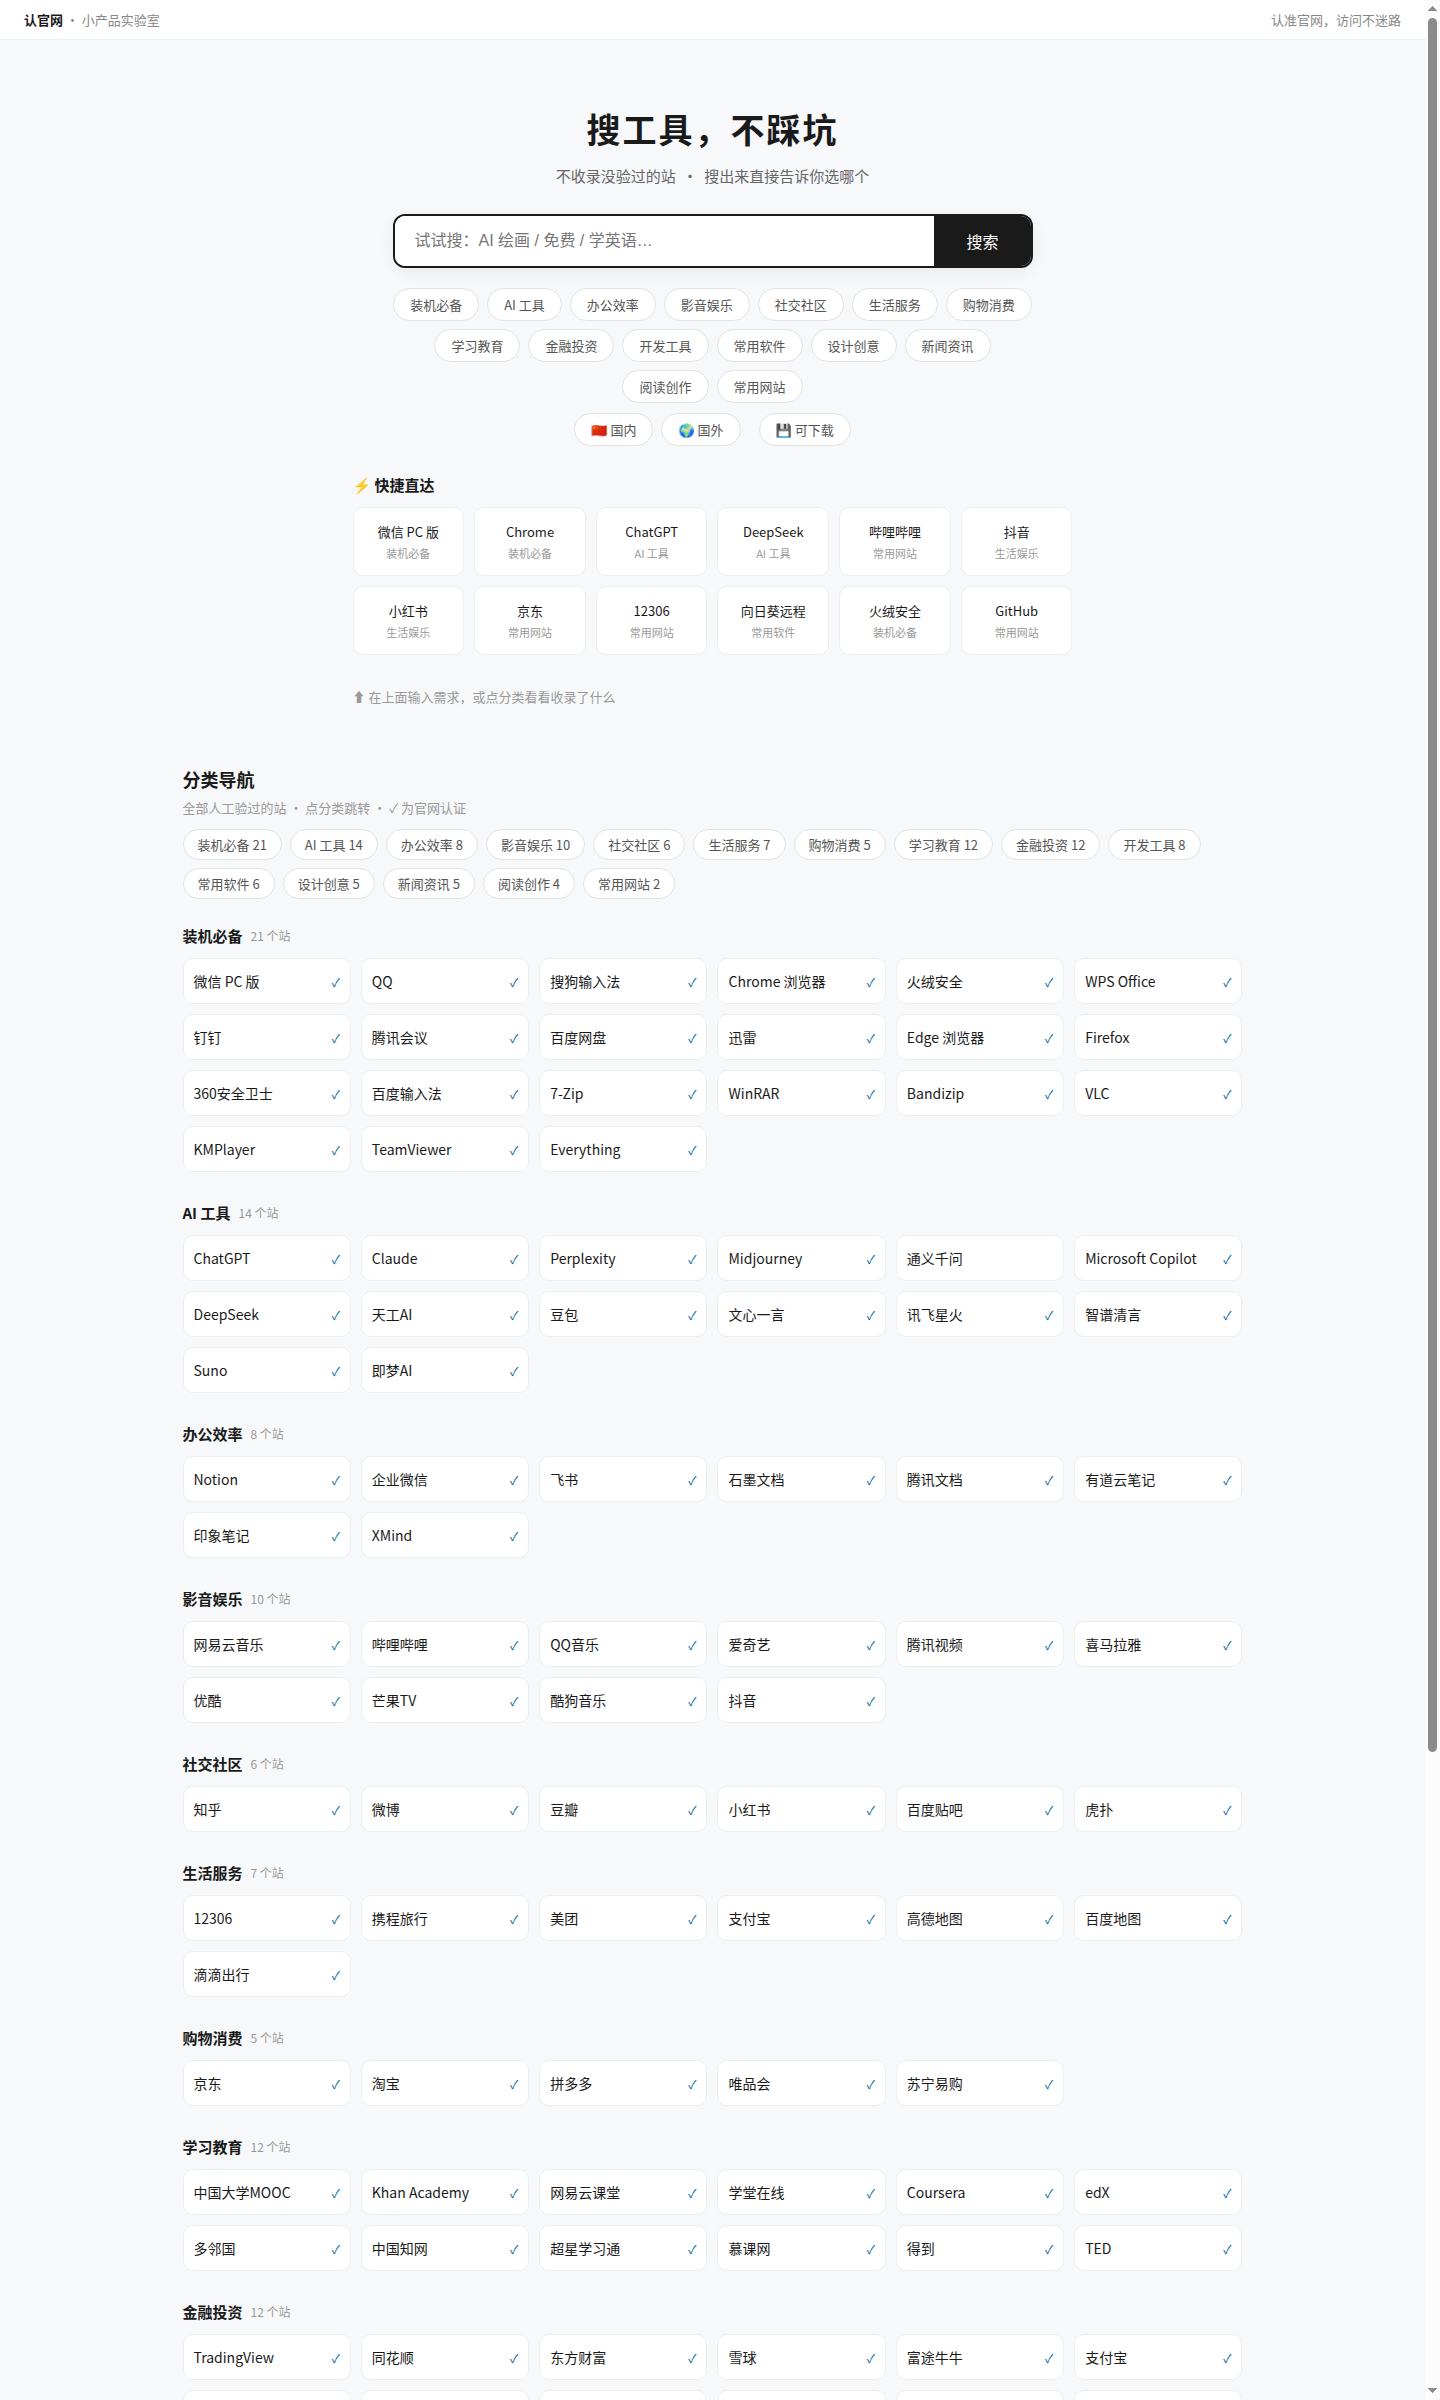
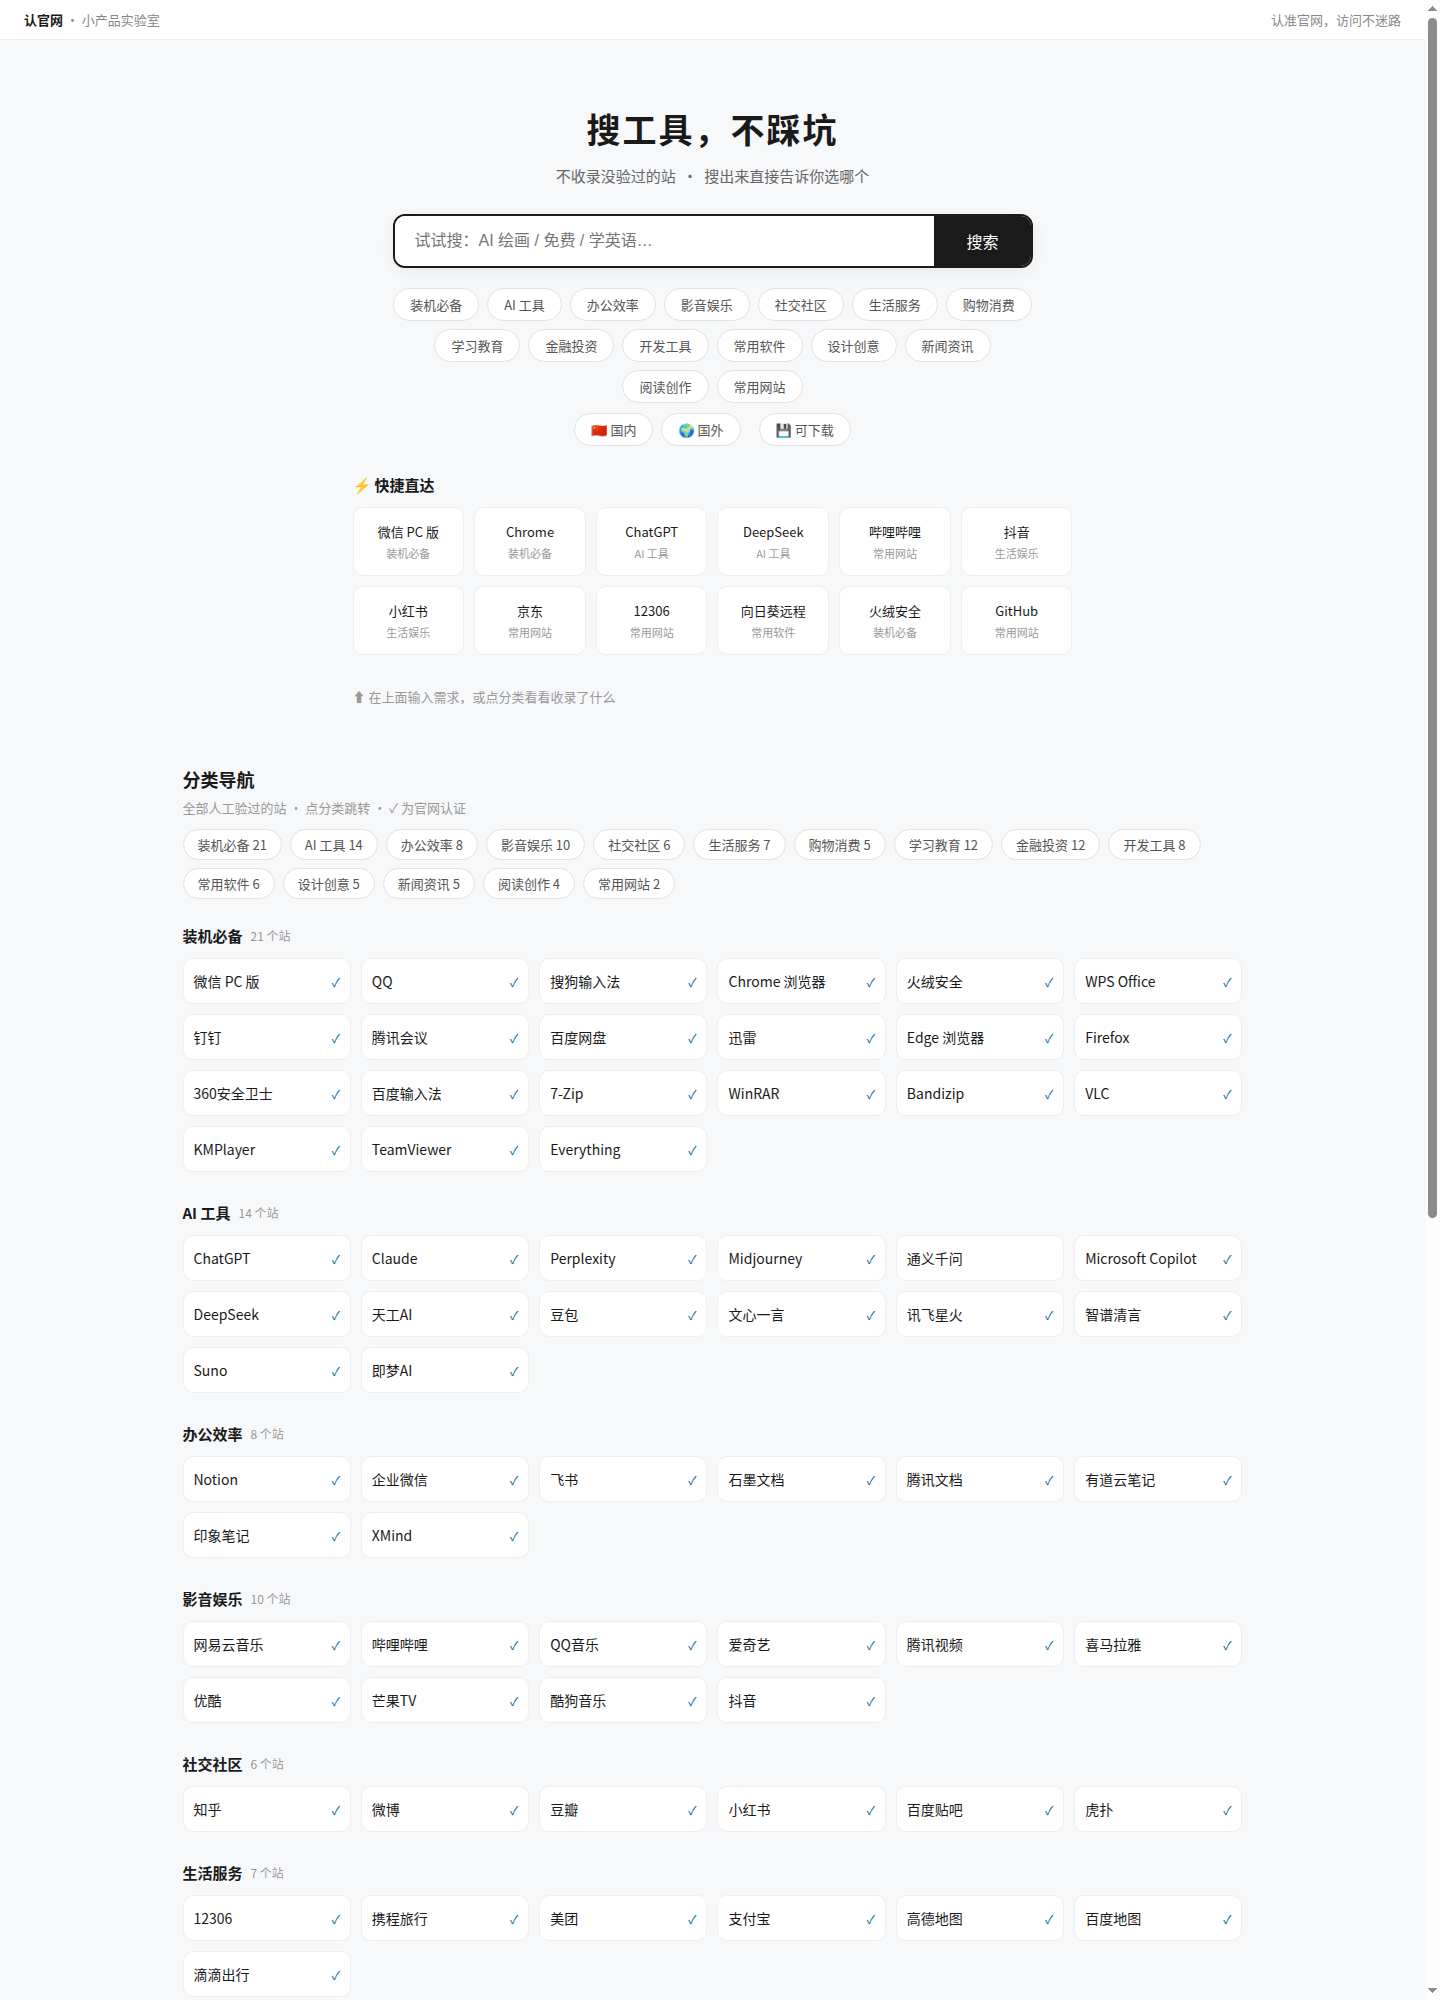
官网信息加重：导航方块/快捷直达/搜索卡片全部显示真实官方域名

diff --git a/index.html b/index.html
@@ -55,9 +55,13 @@
   .cat-block h3 { font-size:15px; margin-bottom:12px; display:flex; align-items:center; gap:8px; }
   .cat-block h3 .cnt { font-size:12px; color:#999; font-weight:400; }
   .site-grid { display:grid; grid-template-columns:repeat(auto-fill, minmax(150px, 1fr)); gap:10px; }
-  .site-grid a { background:#fff; border:1px solid #eee; border-radius:10px; padding:12px 10px; text-decoration:none; color:#1a1a1a; font-size:14px; display:flex; align-items:center; justify-content:space-between; gap:6px; }
+  .site-grid a { background:#fff; border:1px solid #eee; border-radius:10px; padding:12px 10px; text-decoration:none; display:flex; flex-direction:column; align-items:flex-start; gap:3px; }
   .site-grid a:hover { border-color:#1a1a1a; }
-  .site-grid a .off { color:#0369a1; font-size:12px; flex-shrink:0; }
+  .site-grid a .sname { font-size:14px; color:#1a1a1a; display:flex; align-items:center; gap:6px; }
+  .site-grid a .off { color:#0369a1; font-size:12px; font-style:normal; }
+  .site-grid a .sdomain, .quick-grid a .dom { font-family:ui-monospace,SFMono-Regular,Menlo,monospace; font-size:11px; color:#999; }
+  .quick-grid a .dom { display:block; margin-top:3px; }
+  .card .domain { font-family:ui-monospace,SFMono-Regular,Menlo,monospace; font-size:12px; color:#888; margin:2px 0 8px; }
   .footer { text-align:center; color:#bbb; font-size:12px; padding:24px; border-top:1px solid #eee; background:#fff; }
 </style>
 </head>
@@ -137,6 +141,7 @@ dlBtn.onclick = () => {
 regionWrap.appendChild(dlBtn);
 
 function stars(n){ return "★".repeat(n)+"☆".repeat(5-n); }
+function host(u){ try{ return new URL(u).hostname.replace(/^www\./,""); }catch(e){ return ""; } }
 function render(list, q){
   const box = document.getElementById("results");
   if(!q){ box.innerHTML = `<div class="meta">⬆ 在上面输入需求，或点分类看看收录了什么</div>`; return; }
@@ -148,6 +153,7 @@ function render(list, q){
       <div class="rank">${i+1}</div>
       <div class="body">
         <h3>${s.name}<span class="stars">${stars(s.rating)}</span></h3>
+        <div class="domain">${host(s.url)}</div>
         <div class="tags"><i class="cat">${s.cat}</i><i class="price">${s.price}</i>${s.region?`<i class="${s.region==="国内"?"region-dom":"region-for"}">${s.region}</i>`:''}${s.dl?'<i class="dl">💾 可下载</i>':''}${s.official?'<i class="off">✓ 官网认证</i>':''}${s.sponsored?'<i class="ad">推广</i>':''}</div>
         <p>${s.desc}</p>
       </div>
@@ -180,8 +186,13 @@ document.getElementById("q").addEventListener("keydown", e=>{ if(e.key==="Enter"
     const a = document.createElement("a"); a.href = "#"+aid; a.textContent = c + " " + list.length; anchors.appendChild(a);
     const div = document.createElement("div"); div.className = "cat-block"; div.id = aid;
     div.innerHTML = `<h3>${c}<span class="cnt">${list.length} 个站</span></h3><div class="site-grid">` +
-      list.map(s => `<a href="${s.url}" target="_blank" rel="noopener"><span>${s.name}</span>${s.official?'<span class="off">✓</span>':''}</a>`).join("") + `</div>`;
+      list.map(s => `<a href="${s.url}" target="_blank" rel="noopener"><span class="sname">${s.name}${s.official?'<i class="off">✓</i>':''}</span><span class="sdomain">${host(s.url)}</span></a>`).join("") + `</div>`;
     cats.appendChild(div);
+  });
+  // 快捷直达也补上域名
+  document.querySelectorAll(".quick-grid a").forEach(a => {
+    const d = host(a.getAttribute("href"));
+    if(d){ const s = document.createElement("span"); s.className = "dom"; s.textContent = d; a.appendChild(s); }
   });
 })();
 </script>
